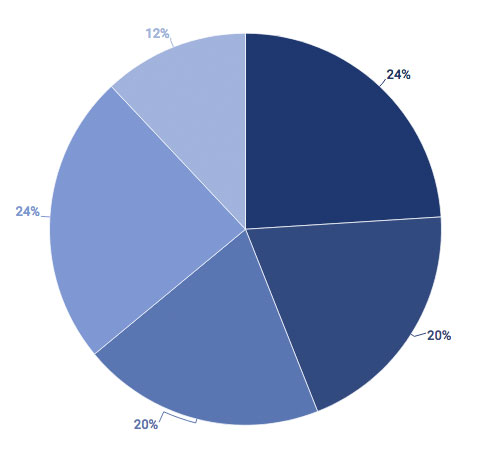
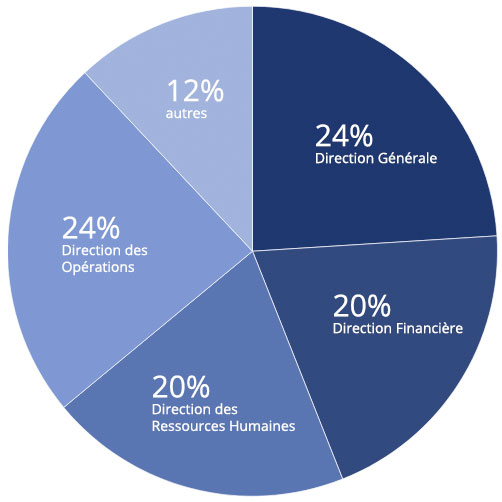
Up

diff --git a/static/en-resume-nc-partners-on-demand.html b/static/en-resume-nc-partners-on-demand.html
@@ -70,7 +70,7 @@
 					</div>
 
 					<div class="c-card t-center">
-						<p class="para--big --noMgTop">Une expérience cumulée de + 10 000 projets</p>
+						<p class="para--big --noMgTop">Une expérience cumulée de <strong>+ 10 000</strong> projets</p>
 					</div>
 
 					<div class="c-card --chart">
@@ -102,7 +102,7 @@
 					</div>
 
 					<div class="c-card --chart">
-						<h3 class="title-3">Ils ont également participé à la croissance de PME</h3>
+						<h3 class="title-3">Ils ont participé à la croissance de PME</h3>
 						<div class="l-logos">
 							<div class="c-logo"><img src="https://cdn.rawgit.com/fluxinetwork/nc-partners-hive/dd3f4cf8/app/img/logos/logo_SGD-Pharma.png" alt="SGD Pharma"></div>
 							<div class="c-logo"><img src="https://cdn.rawgit.com/fluxinetwork/nc-partners-hive/dd3f4cf8/app/img/logos/logo_gondrand.png" alt="Gondrand"></div>
@@ -112,7 +112,7 @@
 					</div>
 
 					<div class="c-card t-center">
-						<p class="para--big --noMgTop">¼ d’entre eux sont aussi des entrepreneurs</p>
+						<p class="para--big --noMgTop"><strong>¼</strong> d’entre eux sont des entrepreneurs</p>
 					</div>
 
 					<h2 class="sectionTitle">Managers de transition</h2>
@@ -123,10 +123,12 @@
 								<h3 class="title-3">Une grande diversité de profils</h3>
 								<div class="c-chart"><img src="https://cdn.rawgit.com/fluxinetwork/nc-partners-hive/dd3f4cf8/app/img/NC-Partners-OnDemand-profils.jpg" alt="Profils"></div>
 									<ul class="c-chartLegende">
-									<li><i class="c-chartLegende__dot"></i>37 % stratèges</li>
-									<li><i class="c-chartLegende__dot"></i>31% opérationnels</li>
-									<li><i class="c-chartLegende__dot"></i>26% managers</li>
-									<li><i class="c-chartLegende__dot"></i>6% autres</li>
+									<li><i class="c-chartLegende__dot"></i>24% Direction Générale</li>
+									<li><i class="c-chartLegende__dot"></i>20% Direction Financière</li>
+									<li><i class="c-chartLegende__dot"></i>20% Direction des Ressources Humaines</li>
+									<li><i class="c-chartLegende__dot"></i>24% Direction des Opérations</li>
+
+									<li><i class="c-chartLegende__dot"></i>12% autres</li>
 								</ul>
 							</div>
 

diff --git a/app/css/main.css b/app/css/main.css
@@ -1257,6 +1257,10 @@ h3.c-cardTitle:after {
   background-color: #7f98d4;
 }
 
+.c-chartLegende li:nth-child(5) .c-chartLegende__dot:before {
+  background-color: #A2B4DB;
+}
+
 .--chart h3.title-3, .--chart .heroCta h3.c-button, .heroCta .--chart h3.c-button {
   margin-top: 0;
 }
@@ -1324,7 +1328,7 @@ h3.c-cardTitle:after {
   background-position: bottom;
 }
 .hero#hero__talents:before {
-  background: url("https://cdn.rawgit.com/fluxinetwork/nc-partners-hive/dd3f4cf8/app/img/NC-Partners-OnDemand-bg-talents.jpg");
+  background: url("https://cdn.rawgit.com/fluxinetwork/nc-partners-hive/3e6c797a/app/img/NC-Partners-OnDemand-bg-resumer.jpg");
   background-size: cover;
   background-repeat: no-repeat;
   background-position: bottom;

diff --git a/index.html b/index.html
@@ -22,7 +22,7 @@
 				<li><a href="static/management-nc-partners-on-demand.html">Management</li>
 				<li><a href="static/mode-emploi-nc-partners-on-demand.html">Mode d'emploi</li>
 				<li><a href="static/qui-nous-sommes-nc-partners-on-demand.html">Qui sommes-nous ?</li>
-				<li><a href="static/les-talents-nc-partners-on-demand.html">Les talents</li>
+				<li><a href="static/en-resume-nc-partners-on-demand.html">En résumé</li>
 			</ul>
 			
 

diff --git a/build/scss/components/hero.scss b/build/scss/components/hero.scss
@@ -66,7 +66,7 @@
 	}
 	
 	&#hero__talents:before{
-		background: url('https://cdn.rawgit.com/fluxinetwork/nc-partners-hive/dd3f4cf8/app/img/NC-Partners-OnDemand-bg-talents.jpg');
+		background: url('https://cdn.rawgit.com/fluxinetwork/nc-partners-hive/3e6c797a/app/img/NC-Partners-OnDemand-bg-resumer.jpg');
 		background-size: cover;
 		background-repeat: no-repeat;
 		background-position: bottom;

diff --git a/build/scss/components/c-chart.scss b/build/scss/components/c-chart.scss
@@ -44,6 +44,9 @@
 .c-chartLegende li:nth-child(4) .c-chartLegende__dot:before{
 	background-color: $c-chart-4;
 }
+.c-chartLegende li:nth-child(5) .c-chartLegende__dot:before{
+	background-color: $c-chart-5;
+}
 
 .--chart{
 
